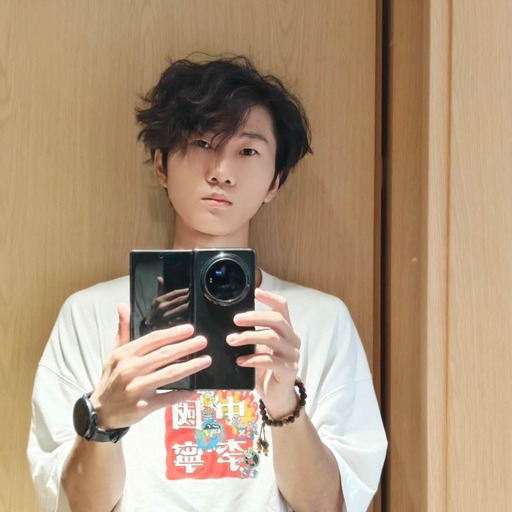
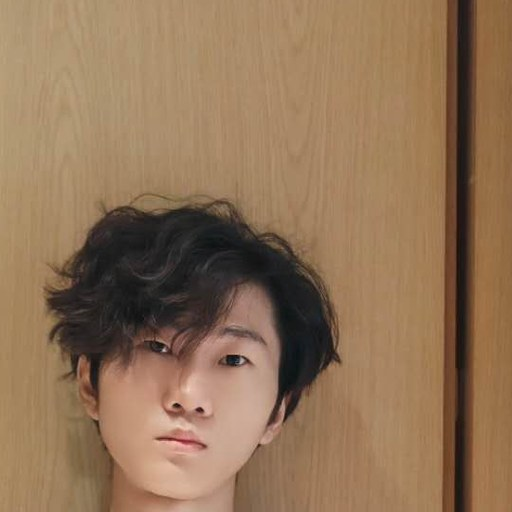
fix: 炫彩字体动画渐变改为纯冷色（蓝→冰蓝→蓝）
之前动画用 linear-gradient(90deg, #38bdf8, #fbbf24, #38bdf8)
中点是 #fbbf24（琥珀金），在深色背景上感知接近橘红。
用户反馈'导航栏还是红色'，实际是动画帧到达暖色端时的视觉感受。

改为 #a5f3fc（冰蓝/浅青）：
- 整体从深蓝 (#38bdf8) → 冰蓝 (#a5f3fc) → 深蓝
- 动画任何帧都是冷色调，不出现暖色感知
- 与男性化'深海蓝'主题一致

静态渐变（文章标题蓝→金 #fbbf24）保留，仍是文章特殊语义。

file: static/css/cyber.css L236

diff --git a/static/css/cyber.css b/static/css/cyber.css
@@ -233,7 +233,7 @@ body::before {
 .icon-copyright,
 .icon-brush,
 .icon-coffee {
-  background: linear-gradient(90deg, #38bdf8, #fbbf24, #38bdf8) !important;
+  background: linear-gradient(90deg, #38bdf8, #a5f3fc, #38bdf8) !important;
   background-size: 300% 100% !important;
   -webkit-background-clip: text !important;
   background-clip: text !important;
